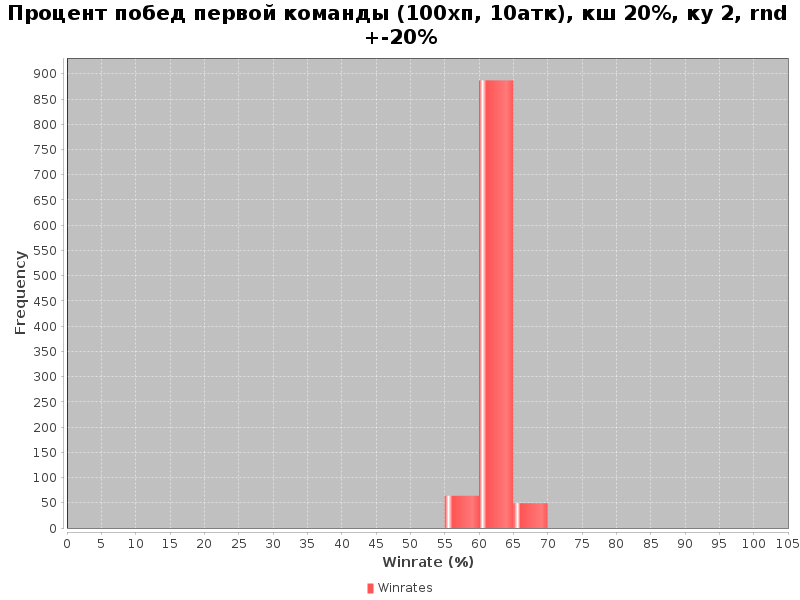
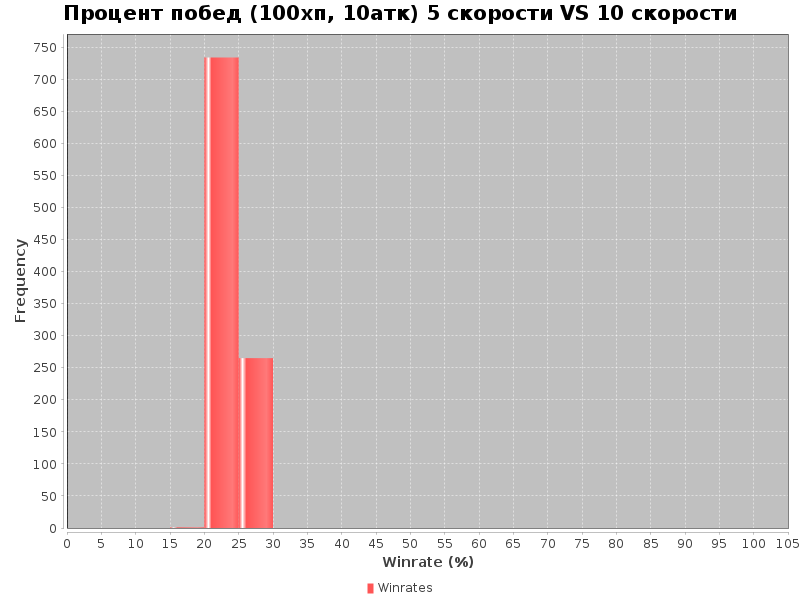
[NF] add speed

diff --git a/src/main/java/ru/homyakin/seeker/game/battle/v4/TwoPersonageTeamsBattle.java b/src/main/java/ru/homyakin/seeker/game/battle/v4/TwoPersonageTeamsBattle.java
@@ -2,11 +2,13 @@ package ru.homyakin.seeker.game.battle.v4;
 
 import org.springframework.stereotype.Component;
 import ru.homyakin.seeker.utils.RandomUtils;
+import ru.homyakin.seeker.utils.models.Pair;
 
+import java.util.ArrayList;
+import java.util.Comparator;
 import java.util.LinkedList;
 import java.util.List;
 import java.util.Map;
-import java.util.Queue;
 import java.util.stream.Collectors;
 
 @Component
@@ -29,41 +31,87 @@ public class TwoPersonageTeamsBattle {
 
         final var firstAliveTeam = firstTeam.stream()
             .collect(Collectors.toMap(BattlePersonage::id, it -> it));
-        final Queue<Long> firstTeamAttackQueue = new LinkedList<>(firstTeam.stream().map(BattlePersonage::id).toList());
-
         final var secondAliveTeam = secondTeam.stream()
             .collect(Collectors.toMap(BattlePersonage::id, it -> it));
-        final Queue<Long> secondTeamAttackQueue = new LinkedList<>(secondTeam.stream().map(BattlePersonage::id).toList());
+        
+        final var speedQueue = createSpeedBasedQueue(firstTeam, secondTeam);
 
-        int teamTurn = randomUtils.getInIntervalNotStatic(1, 2);
         while (!firstAliveTeam.isEmpty() && !secondAliveTeam.isEmpty()) {
-            final var activeAliveTeam = teamTurn == 1 ? firstAliveTeam : secondAliveTeam;
-            final var activeTeamAttackQueue = teamTurn == 1 ? firstTeamAttackQueue : secondTeamAttackQueue;
-            final var enemyAliveTeam = teamTurn == 1 ? secondAliveTeam : firstAliveTeam;
-            final var personage = attackingPersonage(activeAliveTeam, activeTeamAttackQueue);
-            final var targetPersonage = randomAlivePersonage(enemyAliveTeam);
-            personage.dealDamageToPersonage(targetPersonage);
-            activeTeamAttackQueue.add(personage.id());
+            final var nextAttacker = getNextAttacker(speedQueue, firstAliveTeam, secondAliveTeam);
+
+            final var enemyTeam = nextAttacker.second() ? secondAliveTeam : firstAliveTeam;
+            
+            final var targetPersonage = randomAlivePersonage(enemyTeam);
+            nextAttacker.first().dealDamageToPersonage(targetPersonage);
+            
             if (targetPersonage.isDead()) {
-                enemyAliveTeam.remove(targetPersonage.id());
+                enemyTeam.remove(targetPersonage.id());
             }
-            teamTurn = teamTurn == 1 ? 2 : 1;
         }
 
         if (firstAliveTeam.isEmpty()) {
             return TwoTeamBattleWinner.SECOND_TEAM;
-        } else  {
+        } else {
             return TwoTeamBattleWinner.FIRST_TEAM;
         }
     }
 
-    private BattlePersonage attackingPersonage(Map<Long, BattlePersonage> alivePersonages, Queue<Long> attackQueue) {
-        assert !attackQueue.isEmpty();
-        Long personageId;
+    private LinkedList<SpeedQueueEntry> createSpeedBasedQueue(List<BattlePersonage> firstTeam, List<BattlePersonage> secondTeam) {
+        List<SpeedQueueEntry> allPersonages = new ArrayList<>();
+        for (final var personage : firstTeam) {
+            allPersonages.add(new SpeedQueueEntry(new PersonageTeamKey(personage.id(), true), personage.speed()));
+        }
+        for (final var personage : secondTeam) {
+            allPersonages.add(new SpeedQueueEntry(new PersonageTeamKey(personage.id(), false), personage.speed()));
+        }
+        allPersonages = RandomUtils.shuffle(allPersonages);
+
+        final var queue = new LinkedList<>(allPersonages);
+        queue.sort(Comparator.comparing(SpeedQueueEntry::currentSpeed));
+        return queue;
+    }
+
+    private Pair<BattlePersonage, Boolean> getNextAttacker(
+        LinkedList<SpeedQueueEntry> speedQueue,
+        Map<Long, BattlePersonage> firstAliveTeam,
+        Map<Long, BattlePersonage> secondAliveTeam
+    ) {
+        assert !speedQueue.isEmpty();
+
+        BattlePersonage personage;
+        SpeedQueueEntry nextEntry;
         do {
-            personageId = attackQueue.poll();
-        } while (!alivePersonages.containsKey(personageId));
-        return alivePersonages.get(personageId);
+            nextEntry = speedQueue.poll();
+            if (nextEntry.key.firstTeam()) {
+                personage = firstAliveTeam.get(nextEntry.key.personageId());
+            } else {
+                personage = secondAliveTeam.get(nextEntry.key.personageId());
+            }
+        } while (personage.isDead());
+
+        // Reduce all other personages' speed by the attacker's speed
+        for (final var entry : speedQueue) {
+            entry.currentSpeed -= nextEntry.currentSpeed;
+        }
+
+        // Insert personage back into queue in correct position based on speed
+        nextEntry.currentSpeed = personage.speed();
+        insertInCorrectPosition(speedQueue, nextEntry);
+        
+        return Pair.of(personage, nextEntry.key.firstTeam());
+    }
+
+    private void insertInCorrectPosition(LinkedList<SpeedQueueEntry> speedQueue, SpeedQueueEntry newEntry) {
+        int insertIndex = 0;
+        for (int i = 0; i < speedQueue.size(); i++) {
+            if (speedQueue.get(i).currentSpeed() > newEntry.currentSpeed()) {
+                insertIndex = i;
+                break;
+            }
+            insertIndex = i + 1;
+        }
+
+        speedQueue.add(insertIndex, newEntry);
     }
 
     private BattlePersonage randomAlivePersonage(Map<Long, BattlePersonage> alivePersonages) {
@@ -76,5 +124,22 @@ public class TwoPersonageTeamsBattle {
             ++i;
         }
         return alivePersonages.values().stream().findFirst().orElseThrow();
+    }
+
+    private static class SpeedQueueEntry {
+        private final PersonageTeamKey key;
+        private int currentSpeed;
+
+        public SpeedQueueEntry(PersonageTeamKey key, int currentSpeed) {
+            this.key = key;
+            this.currentSpeed = currentSpeed;
+        }
+
+        public int currentSpeed() {
+            return currentSpeed;
+        }
+    }
+
+    public record PersonageTeamKey(Long personageId, boolean firstTeam) {
     }
 }

diff --git a/src/test/java/ru/homyakin/seeker/game/battle/v4/BattleTest.java b/src/test/java/ru/homyakin/seeker/game/battle/v4/BattleTest.java
@@ -25,7 +25,7 @@ public class BattleTest {
         when(randomUtils.getInIntervalNotStatic(1, 2)).thenReturn(1);
         List<Double> winrates = calcFirstTeamWinrates();
         writeHistogramPng(
-            "Процент побед первой команды (100хп, 10атк), кш 20%, ку 2, rnd +-20%",
+            "Процент побед (100хп, 10атк) 5 скорости VS 10 скорости",
             winrates,
             "first_team_first_histogram.png"
         );
@@ -46,8 +46,22 @@ public class BattleTest {
     private List<Double> calcFirstTeamWinrates() {
         final var firstTeamWinrates = new ArrayList<Double>();
         for (int i = 0; i < EXPERIMENTS; i++) {
-            final var team1 = generateEqualTeam(1);
-            final var team2 = generateEqualTeam(1);
+            final var team1 = List.of(
+                new BattlePersonage(
+                    TestRandom.nextLong(),
+                    100,
+                    10,
+                    10
+                )
+            );
+            final var team2 = List.of(
+                new BattlePersonage(
+                    TestRandom.nextLong(),
+                    100,
+                    20,
+                    20
+                )
+            );
             int firstTeamWins = 0;
             for (int j = 0; j < EXPERIMENT_ITERATIONS; j++) {
                 final var firstTeam = team1.stream().map(BattlePersonage::clone).toList();
@@ -94,7 +108,8 @@ public class BattleTest {
                 new BattlePersonage(
                     TestRandom.nextLong(),
                     100,
-                    10
+                    10,
+                    5
                 )
             );
         }

diff --git a/src/main/java/ru/homyakin/seeker/game/battle/v4/BattlePersonage.java b/src/main/java/ru/homyakin/seeker/game/battle/v4/BattlePersonage.java
@@ -6,11 +6,13 @@ public class BattlePersonage implements Cloneable {
     private final long id;
     private int health;
     private int attack;
+    private int speed;
 
-    public BattlePersonage(long id, int health, int attack) {
+    public BattlePersonage(long id, int health, int attack, int speed) {
         this.id = id;
         this.health = health;
         this.attack = attack;
+        this.speed = speed;
     }
 
     public void dealDamageToPersonage(BattlePersonage enemy) {
@@ -46,13 +48,17 @@ public class BattlePersonage implements Cloneable {
         return id;
     }
 
+    public int speed() {
+        return speed;
+    }
+
     public boolean isDead() {
         return health <= 0;
     }
 
     @Override
     public BattlePersonage clone() {
-        return new BattlePersonage(id, health, attack);
+        return new BattlePersonage(id, health, attack, speed);
     }
 
     private static final int CRIT_CHANCE = 20;

diff --git a/documentation/battle/battle.md b/documentation/battle/battle.md
@@ -1,109 +1,14 @@
 # Боёвка
 
-## Боевой персонаж
+Боевая система должна удовлетворять следующим критериям:
+- Автобой
+- Вариативность прокачки
 
-Характеристики:
-- Здоровье (hp)
-- Атака (atk)
-- Защита (def)
-- Сила (strength)
-- Ловкость (agility)
-- Мудрость (wisdom)
+## Идеи
 
+- Скорость персонажа.
+  - Все выстраиваются в единую очередь и делают ход в зависимости от очереди
+  - Снаряжение влияет на скорость
+- https://tung.github.io/posts/simplest-non-problematic-damage-formula/
+- 
 ## Бой
-
-Боёвка построена на принципе КНБ: сила > ловкость > мудрость > сила
-В качестве основного инструмента баланса используются разновидности функций 1/x
-- Она стремится к определённому значению, но никогда его не достигает, причём чем больше x, тем медленней растёт функция
-- Если нужно определённое значение, к которому стремится функция, достаточно просто сместить по оси Y: 1/x + N
-- Если функция растёт слишком быстро, достаточно просто умножить её на некий модификатор: (N * 1)/x
-- Просто менять начальное значение путём смещения по оси X: 1/(x + N)
-
-### Преимущество (advantage)
-Преимущество Игрок1 перед Игрок2 на основе характеристик
-```
-сила1 = max(Игрок1.сила - Игрок2.ловкость / 2 - Игрок2.мудрость, 1)
-ловкость1 = max(Игрок1.ловкость - Игрок2.мудрость / 2 - Игрок2.сила, 1)
-мудрость1 = max(Игрок1.мудрость - Игрок2.сила / 2 - Игрок2.ловкость, 1)
-сила2 = max(Игрок2.сила - Игрок1.ловкость / 2 - Игрок1.мудрость, 1)
-ловкость2 = max(Игрок2.ловкость - Игрок1.мудрость / 2 - Игрок1.сила, 1)
-мудрость2 = max(Игрок2.мудрость - Игрок1.сила / 2 - Игрок1.ловкость, 1)
-преимущество = (сила1 + ловкость1 + мудрость1) - (сила2 + ловкость2 + мудрость2)
-```
-После необходимо посчитать итоговое значение от преимущества.
-Максимум при значениях 13/1/1 и 1/13/1 = 1.2
-```
-fun число бонус_преимущества(перимущество) {
-    если (перимущество) <= 0 {
-        вернуть 1
-    }
-    вернуть 1 + (-4.125 / (перимущество + 8.25) + 0.5)
-}
-```
-
-### Уворот
-В бою есть шанс увернуться от атаки противника с базовой вероятностью 5%
-Ниже реализация функции уворота (шанс от 5% до 17.9% при разнице 12)
-```
-fun bool уворот(ловкость1, ловкость2) {
-    разница = ловкость1 - ловкость2
-    шанс = 5
-    смещение_х = -34.15
-    если разница > смещение_х:
-        шанс = шанс + max(-1707.69 / (разница - offset_x) + 50, 0)
-    вернуть рандом(1, 100) <= шанс
-} 
-```
-
-### Критический урон
-В бою есть шанс нанести критический урон с базовой вероятностью 5%
-Ниже реализации функции крита (шанс от 5 до 21.9 при разнице 12)
-Модификатор крита равен 2
-```
-fun число крит(мудрость1, мудрость2) {
-    разница = мудрость1 - мудрость2
-    шанс = 5
-    смещение_шанса_х = -23.29
-    если diff > смещение_шанса_х:
-        шанс = шанс + max(-1164.7 / (разница - смещение_шанса_х) + 50, 0)
-    если рандом(1, 100) > шанс:
-        вернуть 1
-    вернуть 2
-}
-```
-
-### Бонус атаки
-Атака персонажа не является постоянной величиной, а колеблется от -10 до +10%
-Сила персонажа способна увеличить бонус атаки от 0% до 17,(7)% при разнице силы 12.
-Ниже реализация
-```
-fun число бонус_атаки(сила1, сила2) {
-    отклонение = 0.1
-    бонус = 0
-    смещение_х = -15
-    разница = сила1 - сила2
-    if разница > смещение_х:
-        бонус = бонус + max(-6 / (разница - смещение_х) + 0.4, 0)
-    вернуть рандом(1 - отклонение, 1 + отклонение) + бонус
-}
-```
-
-### Один ход боя (Игрок1 против Игрок2)
-
-```
-если не уворот(Игрок2.ловкость, Игрок1.ловкость):
-    преимущество = Игрок1.преимущество(Игрок2)
-        
-    атака = Игрок1.атака
-     * бонус_преимущества(преимущество) 
-     * крит(Игрок1.мудрость, Игрок2.мудрость)
-     * бонус_атаки(Игрок1.сила, Игрок2.сила)
-    Игрок2.здоровье -= max(атака - Игрок2.защита, Игрок1.атака * мин_атака)
-    
-    если Игрок2.здоровье < 0:
-        вернуть Игрок2.поражение
-```
-
-
-
-
